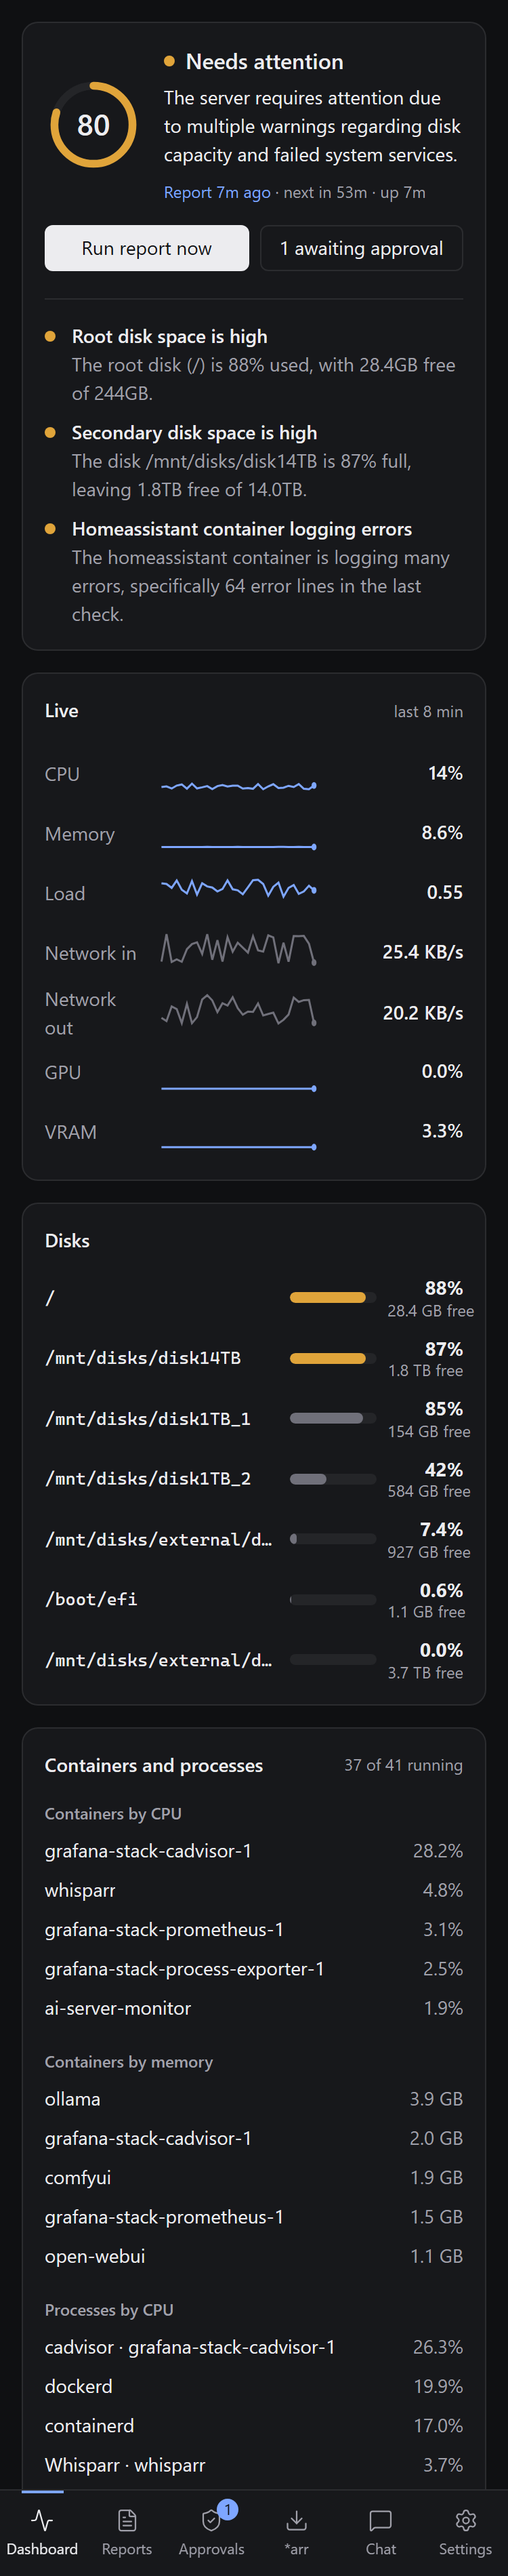
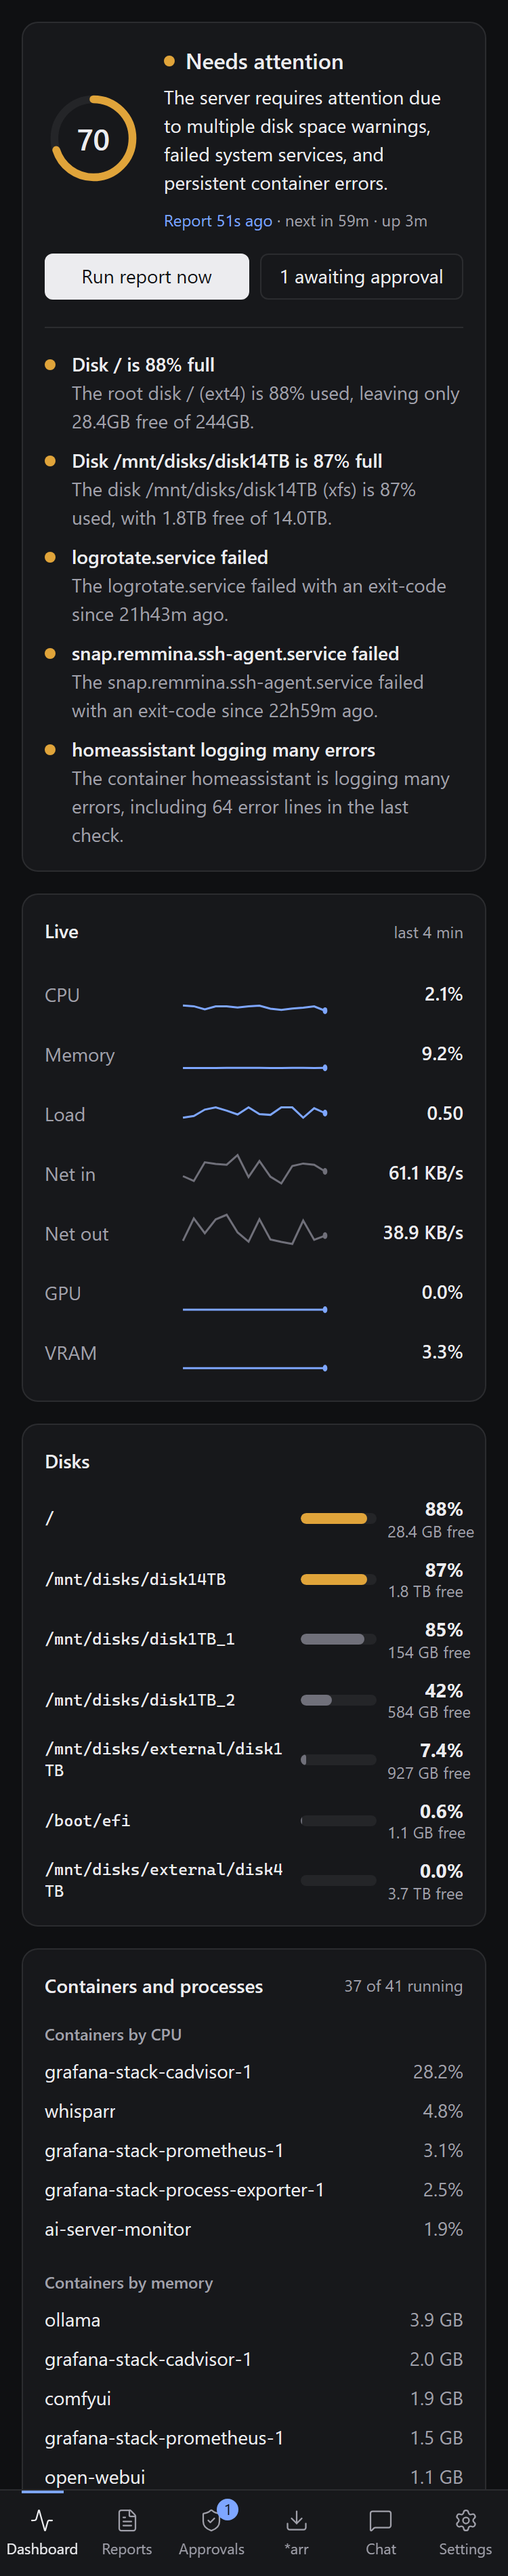
M6 follow-up: wrap long mounts, shorter live labels, dim failed/skipped history rows, new screenshots

diff --git a/frontend/src/styles.css b/frontend/src/styles.css
@@ -184,6 +184,7 @@ pre { margin: 0; font: 12px/1.5 var(--mono); white-space: pre-wrap; overflow-wra
 .history-row:hover { background: var(--hover); text-decoration: none; }
 .history-row.selected { background: var(--surface); box-shadow: inset 0 0 0 1px var(--border); }
 .history-top { display: flex; align-items: center; gap: 8px; }
+.history-row.problem .history-time { color: var(--muted); font-weight: 400; }
 .history-time { font-weight: 500; }
 .history-score { margin-left: auto; color: var(--muted); }
 .history-summary { display: -webkit-box; -webkit-line-clamp: 2; -webkit-box-orient: vertical; overflow: hidden; margin-top: 4px; color: var(--muted); font-size: 13px; }
@@ -356,7 +357,8 @@ dd { margin: 0; overflow-wrap: anywhere; }
   .finding-title { display: block; margin: 0; }
   .live-row { grid-template-columns: 88px minmax(0, 1fr) 88px; gap: 12px; }
   .live-value small { display: none; }
-  .disks li { grid-template-columns: minmax(0, 1fr) 64px 56px; gap: 8px; }
+  .disks li { grid-template-columns: minmax(0, 1fr) 56px 56px; gap: 8px; align-items: center; }
+  .disk-mount { white-space: normal; overflow-wrap: anywhere; font-size: 12px; line-height: 16px; }
   .toplists { grid-template-columns: minmax(0, 1fr); }
   .facts { grid-template-columns: minmax(0, 1fr); gap: 4px; }
   .facts dd { margin-bottom: 12px; }

diff --git a/frontend/src/pages/Dashboard.tsx b/frontend/src/pages/Dashboard.tsx
@@ -217,8 +217,8 @@ function LivePanel({ system, gpu }: { system: Data; gpu: Data }) {
           sub={`5 min ${cpu.load?.[1]?.toFixed(2) ?? "—"}`}
           level={lvl(load === null ? null : load / cores, 1.5, 3)}
         />
-        <LiveRow label="Network in" values={ticks.map((t) => t.net_rx_bps)} now={rate(rx)} />
-        <LiveRow label="Network out" values={ticks.map((t) => t.net_tx_bps)} now={rate(tx)} />
+        <LiveRow label="Net in" values={ticks.map((t) => t.net_rx_bps)} now={rate(rx)} />
+        <LiveRow label="Net out" values={ticks.map((t) => t.net_tx_bps)} now={rate(tx)} />
         {g0 && (
           <>
             <LiveRow

diff --git a/frontend/src/pages/Reports.tsx b/frontend/src/pages/Reports.tsx
@@ -79,7 +79,7 @@ function HistoryRow({ report: r, now, selected }: { report: ReportSummary; now: 
   const level = r.status === "ok" ? healthLevel(r.health) : "off";
   return (
     <li>
-      <a href={`#/reports/${r.id}`} className={selected ? "history-row selected" : "history-row"}>
+      <a href={`#/reports/${r.id}`} className={`history-row${selected ? " selected" : ""}${r.status === "ok" ? "" : " problem"}`}>
         <span className="history-top">
           <Dot level={level} />
           <span className="history-time">{clock(r.ts)}</span>
